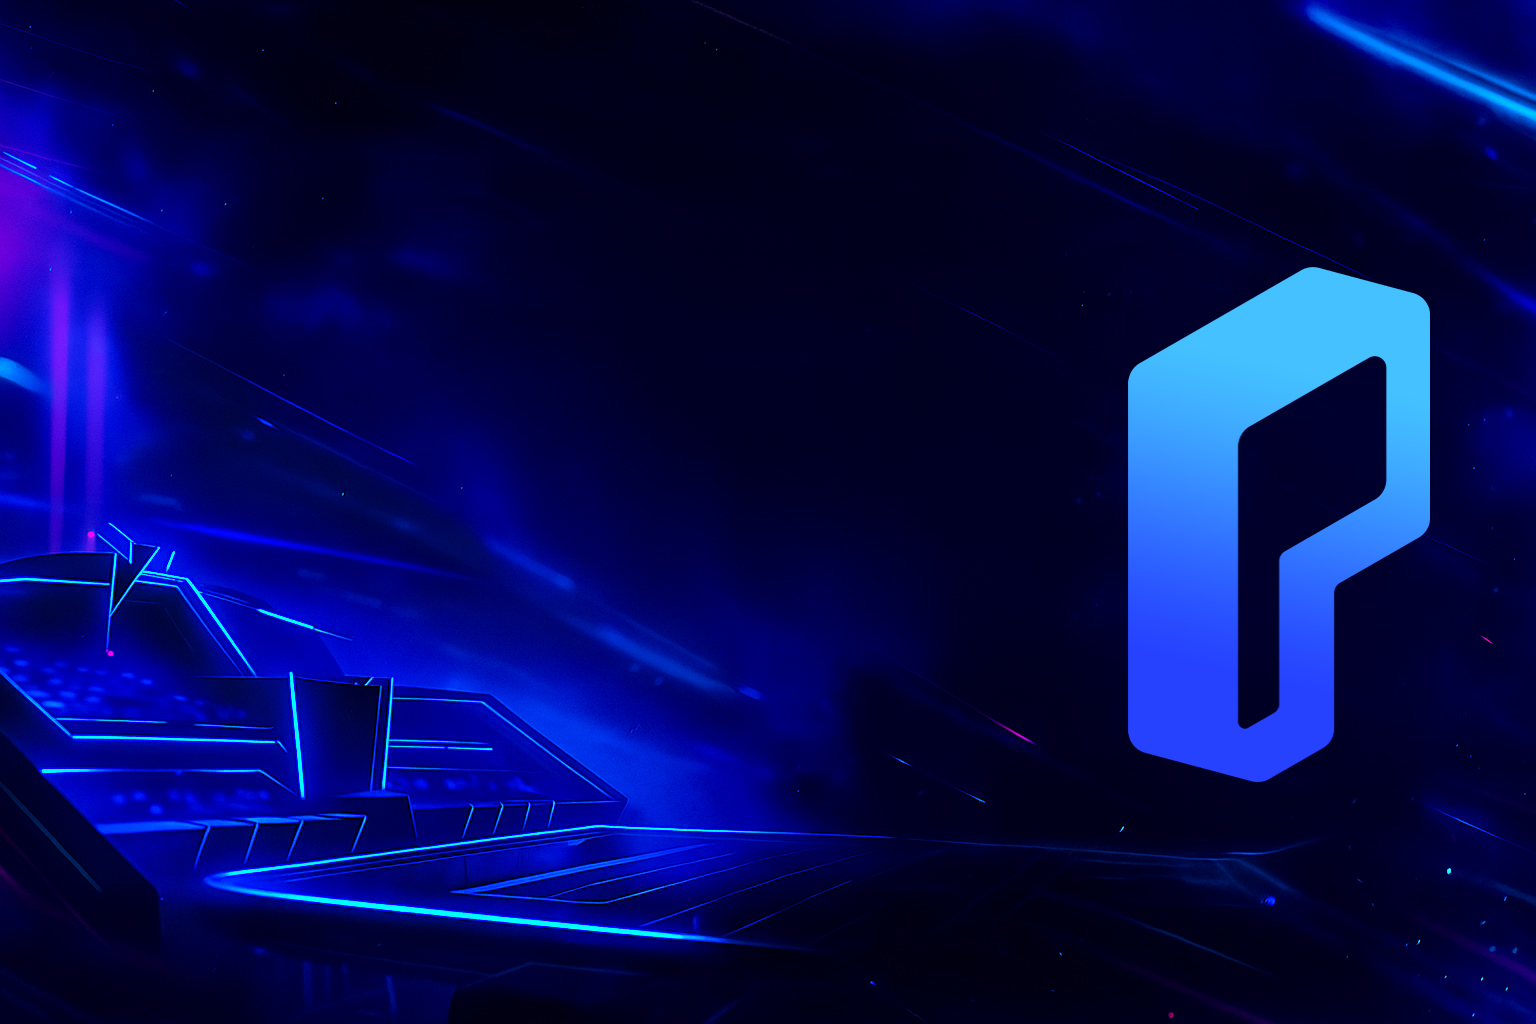
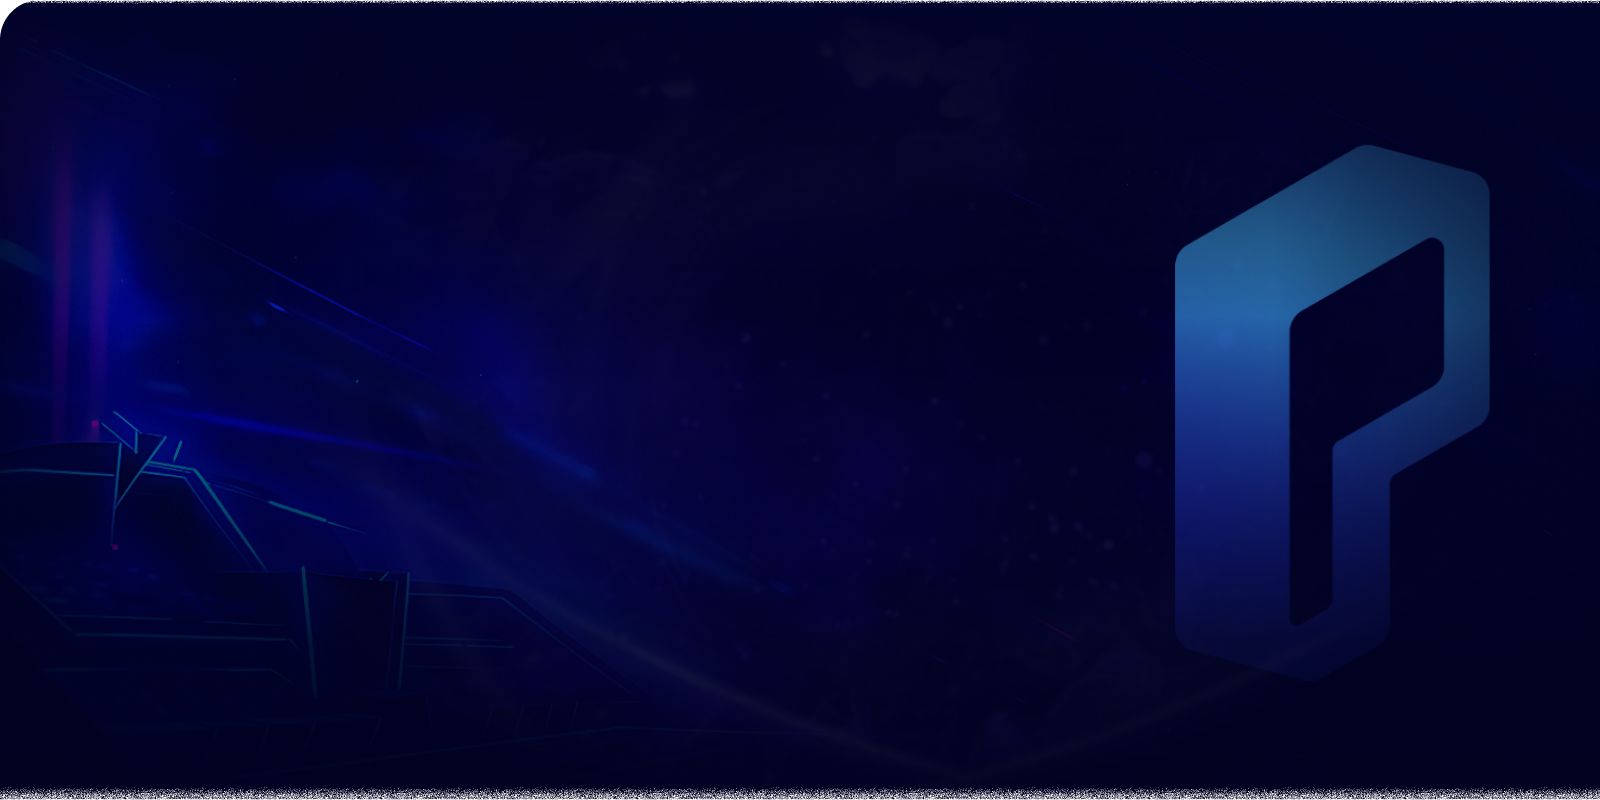
DONE

diff --git a/src/assets/css/homepage.css b/src/assets/css/homepage.css
@@ -5,7 +5,7 @@
     left: -2.4rem;
     width: 110%;
     height: 100%;
-    background-image: url(/src/assets/images/prime_game_bg.png);
+    background-image: url(/src/assets/images/prime_game_bg3.png);
     background-position: center;
     background-repeat: no-repeat;
     background-size: cover;
@@ -14,9 +14,9 @@
 }
 
 html[dir=rtl] .home_hero--sec::after {
-    /* background-image: url(/src/assets/images/prime_game_bg.png); */
-    transform: rotateY(180deg);
-    left: -8.4rem;
+    background-image: url(/src/assets/images/prime_game_bg2.png);
+    /* transform: rotateY(180deg); */
+    /* left: -8.4rem; */
 }
 
 .home_hero_left-con {
@@ -534,7 +534,7 @@ html[dir=rtl] .big-card .swiper-slide.swiper-slide-active .game_card_wrap--link 
 ----------------------------------- */
 
 .home_faq--sec .faq_left--con {
-    background-image: url(../images/faqBG.png);
+    background-image: url(../images/faqBG2.png);
     background-repeat: no-repeat;
     opacity: 0.9;
 }
